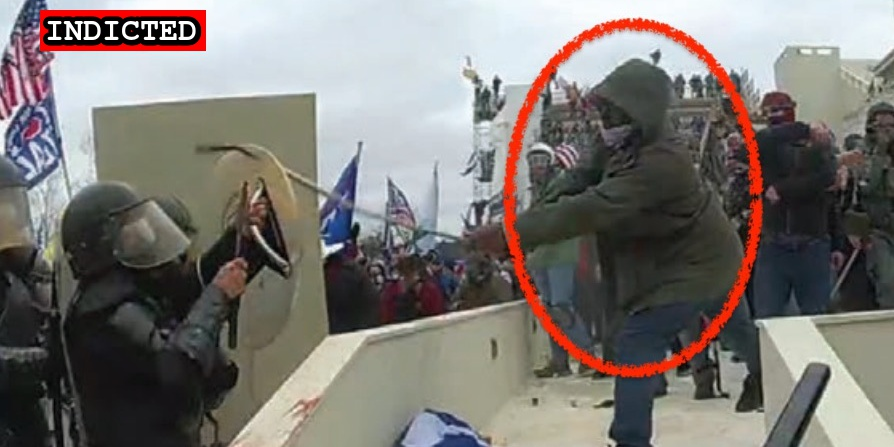
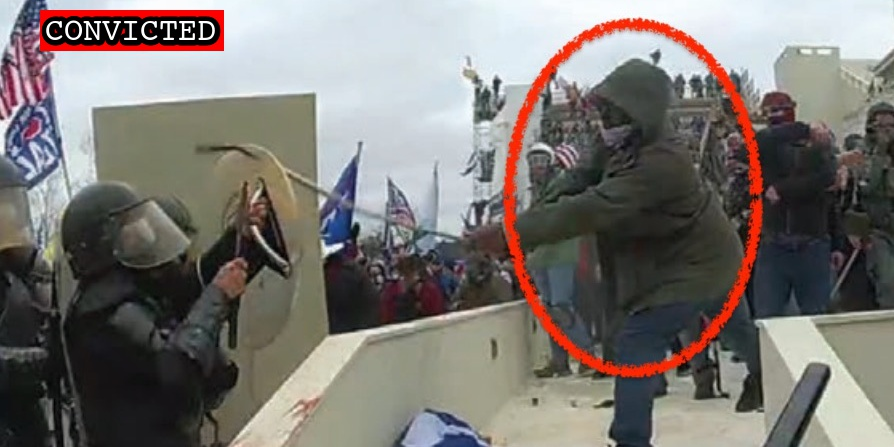
More guilty pleas

Changed region(s): [[0.0302, 0.0, 0.2718, 0.1163]]

diff --git a/docs/_suspects/mark-ponder.md b/docs/_suspects/mark-ponder.md
@@ -4,17 +4,18 @@ lastName: Ponder
 hashtag: BeigeSweaterWrestler
 aka:
 residence: Washington, DC
-status: Indicted
+status: Convicted
 date: 2021-03-12
 charged: 2021-03-12
 indicted: 2021-03-26
-convicted:
+convicted: 2022-04-22
+acquitted:
 sentenced:
 dismissed:
 deceased:
 plea_hearing: 2022-04-22
-sentencing:
 trial_date:
+sentencing:
 age: 55
 occupation:
 affiliations:
@@ -35,6 +36,10 @@ published: true
 caseNumber: 1:21-cr-259
 videos:
 charges:
+  - code: 18 USC § 111(a)(1) and (b)
+    title: Assaulting, resisting, or impeding certain officers or employees (using a deadly or dangerous weapon)
+    url: https://www.law.cornell.edu/uscode/text/18/111
+    felony: true
 sentence:
 ---
 
@@ -42,3 +47,4 @@ sentence:
 - [Complaint](https://www.justice.gov/usao-dc/case-multi-defendant/file/1379086/download)
 - [Statement of Facts](https://www.justice.gov/usao-dc/case-multi-defendant/file/1379091/download)
 - [Indictment](https://www.justice.gov/usao-dc/case-multi-defendant/file/1459961/download)
+- [DOJ Statement (Conviction)](https://www.justice.gov/usao-dc/pr/district-columbia-man-pleads-guilty-felony-charge-offenses-committed-during-jan-6-capitol)
